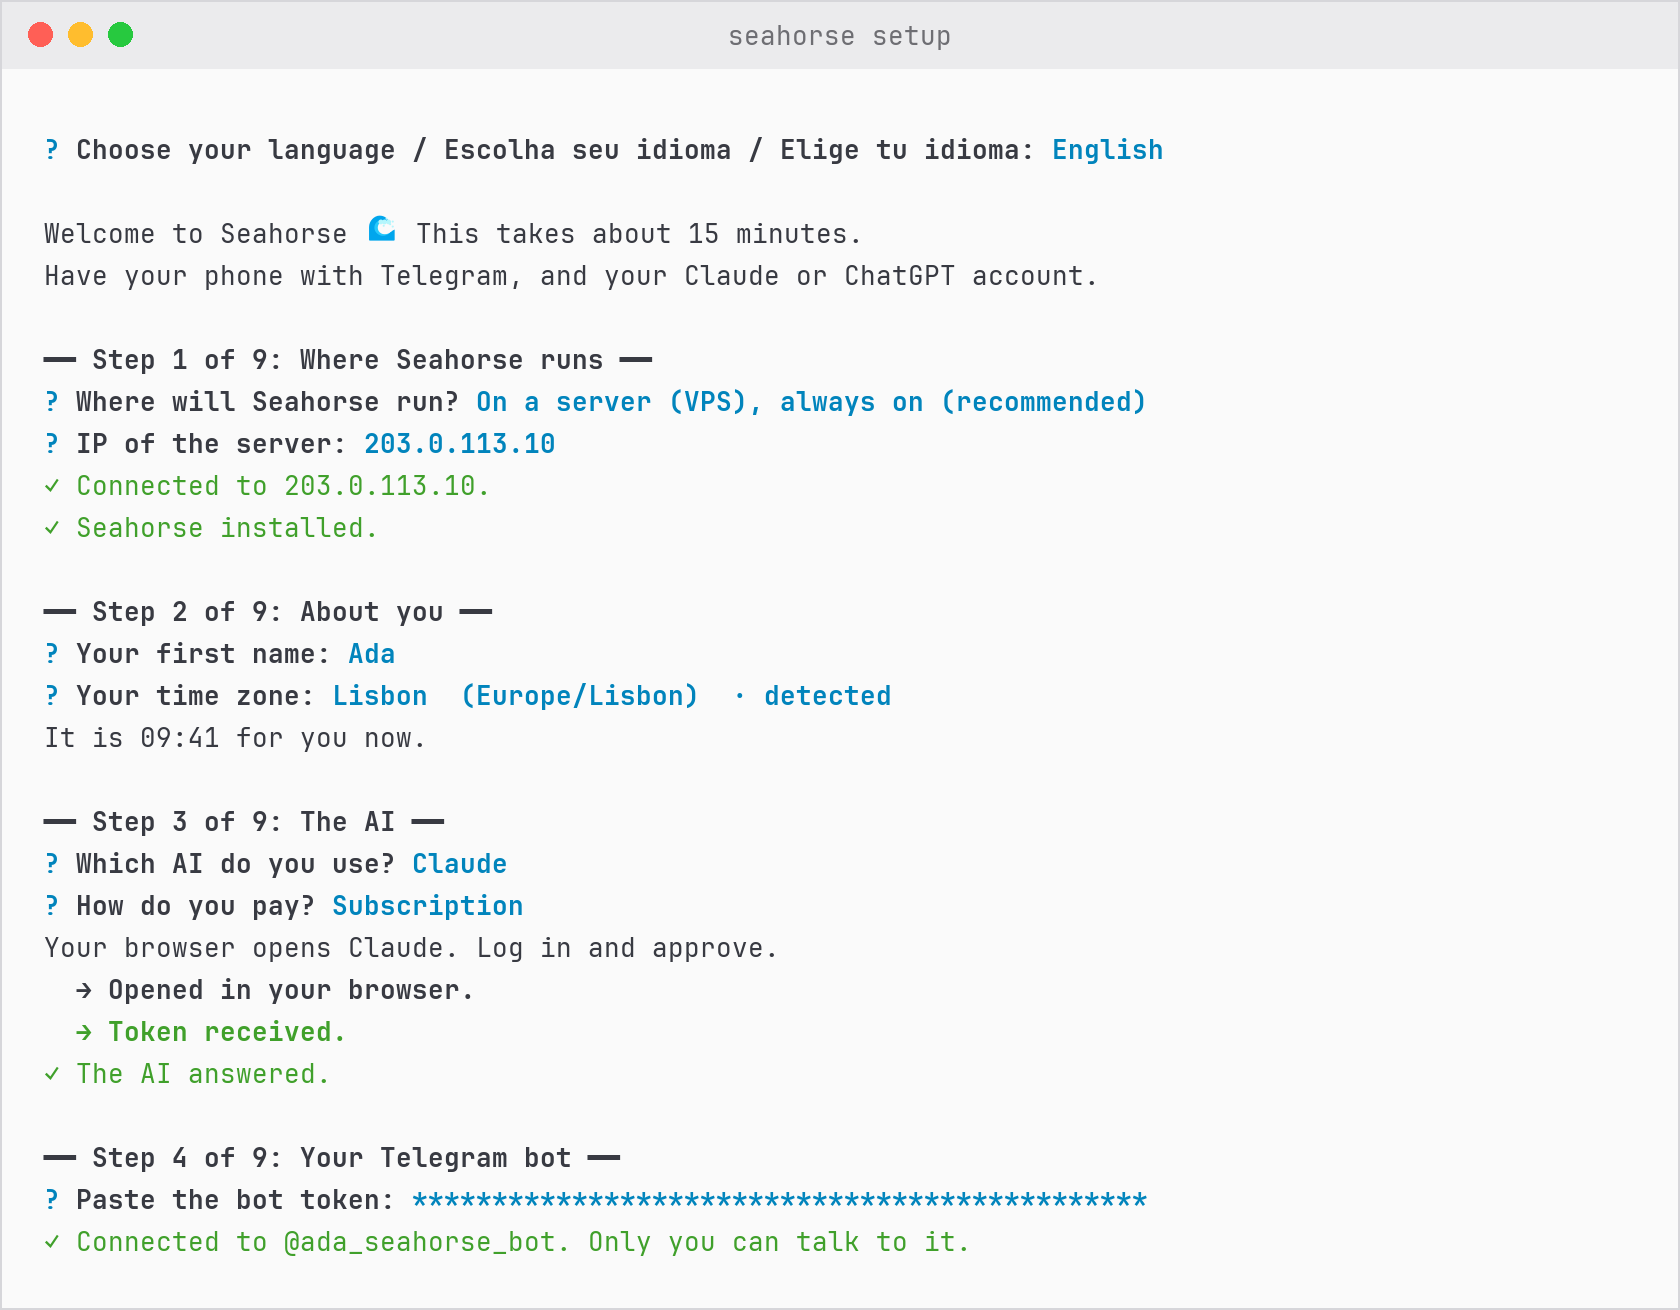
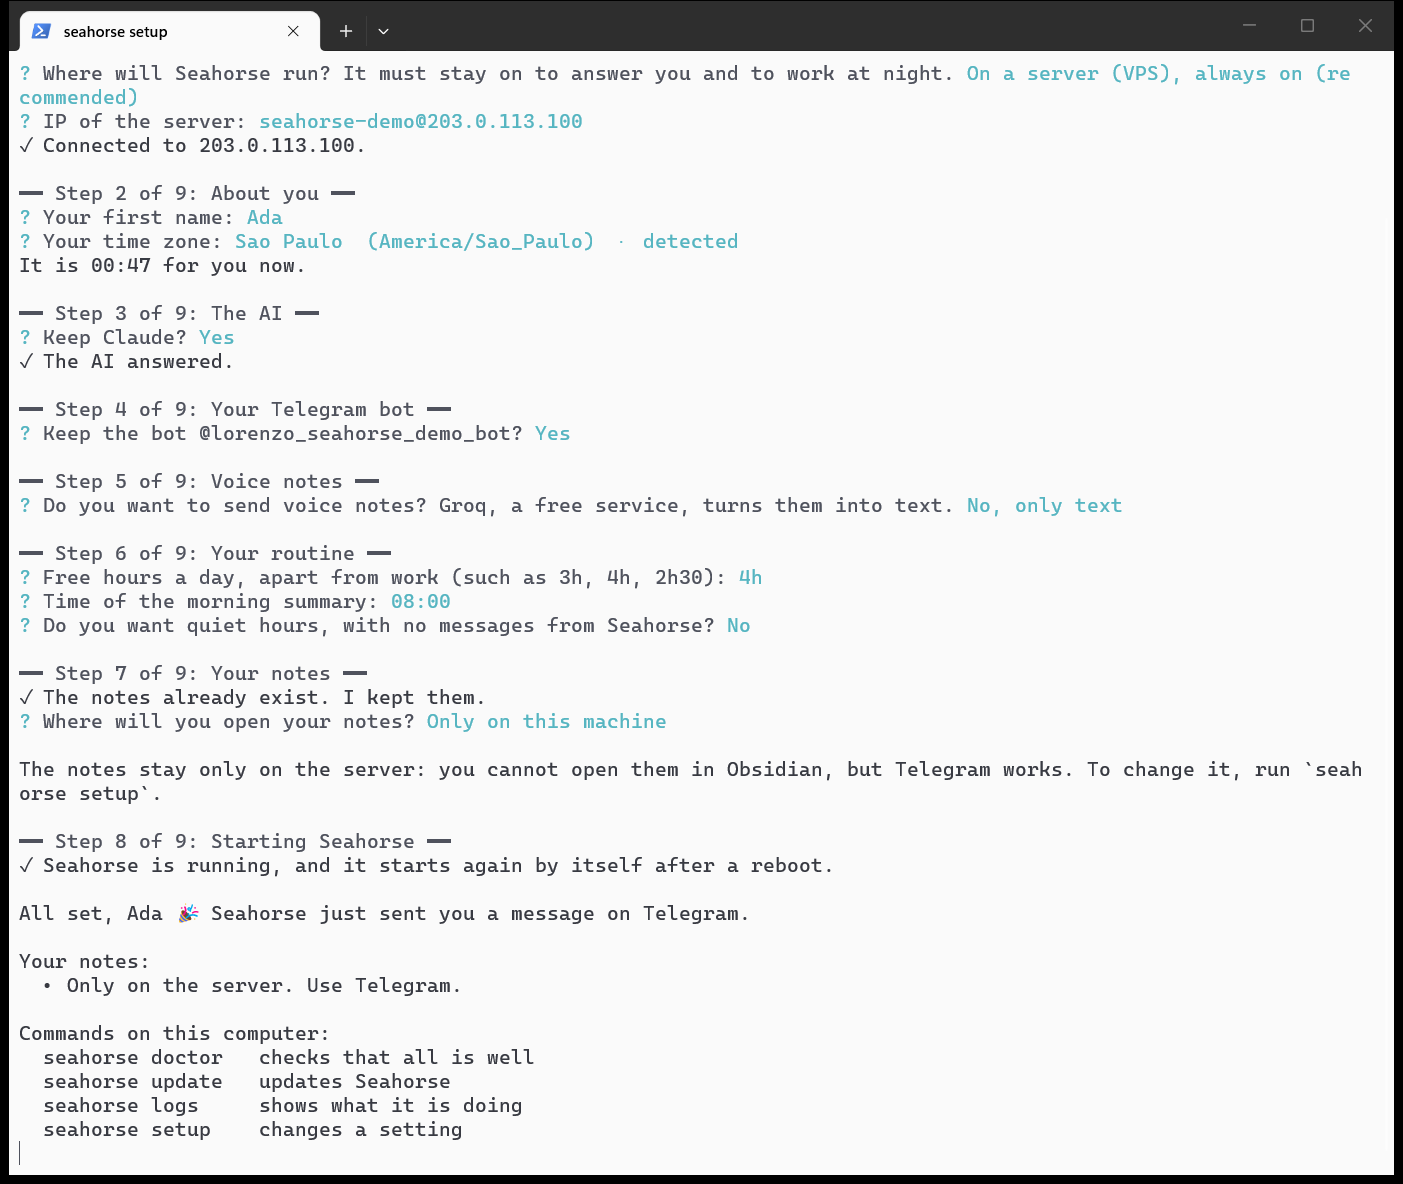
README: real screenshots of Telegram and of the setup
- The Telegram pictures are screenshots of a demo Seahorse: the morning summary, the week, a suggestion the
  Companion found on the web, and a capture with its answer.
- The setup picture is a real run of `seahorse setup` in Windows Terminal; the server address is replaced by a
  documentation address.

diff --git a/README.md b/README.md
@@ -4,7 +4,7 @@
 
 <p align="center"><b>Seahorse learns who you are.</b><br>Tell it about your day. It keeps a living map of your mind: what you will do, what happened, what you know, and who you are. And it comes back to you, like a friend who remembers.</p>
 
-<p align="center"><img src="assets/telegram.png" width="380" alt="A day with Seahorse on Telegram: the morning summary, two captures, and a suggestion"></p>
+<p align="center"><img src="assets/telegram.jpg" width="380" alt="Seahorse on Telegram: the morning summary, the week, and a suggestion it found for you"></p>
 
 ## What it does
 
@@ -76,7 +76,7 @@ The setup asks one thing at a time, in English, Portuguese or Spanish, in about 
 - **Ask**: "When is my dentist appointment?"
 - **See the week**: send `week`, or `today`.
 
-<p align="center"><img src="assets/week.png" width="720" alt="The week as an image"></p>
+<p align="center"><img src="assets/telegram-capture.jpg" width="380" alt="A capture on Telegram, and where Seahorse put it"></p>
 
 ## Commands
 
